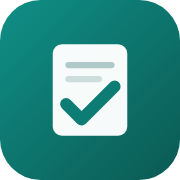
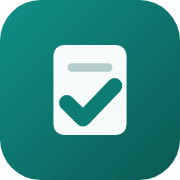
헤더 로고 통일

Changed region(s): [[0.2778, 0.2222, 0.7222, 0.7778], [0.4722, 0.5, 0.6667, 0.6944], [0.4444, 0.6944, 0.4722, 0.7222]]

diff --git a/app/logo.js b/app/logo.js
@@ -1,0 +1,44 @@
+'use client';
+
+/**
+ * 브랜드 마크 — 서류 카드 + 확인된 근거(체크).
+ * app/icon.svg(파비콘·앱 아이콘)와 같은 도형을 쓴다.
+ * 작은 크기에서도 형태가 뭉개지지 않도록 선 굵기를 키워 둔 버전이다.
+ */
+export default function Logo({ size = 28, radius = 8 }) {
+  return (
+    <svg
+      width={size}
+      height={size}
+      viewBox="0 0 512 512"
+      role="img"
+      aria-label="KO-Finance Buddy"
+      style={{ display: 'block', flex: 'none' }}
+    >
+      <defs>
+        <linearGradient id="kfbLogoBg" x1="0" y1="0" x2="1" y2="1">
+          <stop offset="0%" stopColor="#0F8F86" />
+          <stop offset="100%" stopColor="#0B5A54" />
+        </linearGradient>
+      </defs>
+
+      <rect width="512" height="512" rx={(radius / size) * 512} fill="url(#kfbLogoBg)" />
+
+      {/* 서류 카드 */}
+      <rect x="152" y="128" width="208" height="256" rx="30" fill="#FFFFFF" opacity="0.97" />
+
+      {/* 문서의 줄 — 작은 크기에서도 보이도록 굵게 */}
+      <rect x="192" y="180" width="128" height="24" rx="12" fill="#0B5A54" opacity="0.28" />
+
+      {/* 확인된 근거 = 체크 */}
+      <path
+        d="M190 292 L236 338 L326 244"
+        fill="none"
+        stroke="#0D7C74"
+        strokeWidth="44"
+        strokeLinecap="round"
+        strokeLinejoin="round"
+      />
+    </svg>
+  );
+}

diff --git a/app/screens/Home.js b/app/screens/Home.js
@@ -1,6 +1,7 @@
 'use client';
 
 import { CtaBar } from '../ui';
+import Logo from '../logo';
 import { LANGS, fmtDate } from '@/lib/i18n';
 import { VISAS, TASKS } from '@/lib/engine';
 
@@ -34,22 +35,7 @@ export default function Home({ s, lang, setLang, visa, task, toggleVisa, toggleT
           }}
         >
           <div style={{ display: 'flex', alignItems: 'center', gap: 10 }}>
-            <div
-              style={{
-                width: 28,
-                height: 28,
-                borderRadius: 8,
-                background: 'var(--teal-600)',
-                color: '#fff',
-                fontSize: 14,
-                fontWeight: 800,
-                display: 'flex',
-                alignItems: 'center',
-                justifyContent: 'center',
-              }}
-            >
-              K
-            </div>
+            <Logo size={28} radius={8} />
             <div style={{ fontSize: 17, fontWeight: 800, letterSpacing: '-0.3px' }}>
               {s.appName}
             </div>
